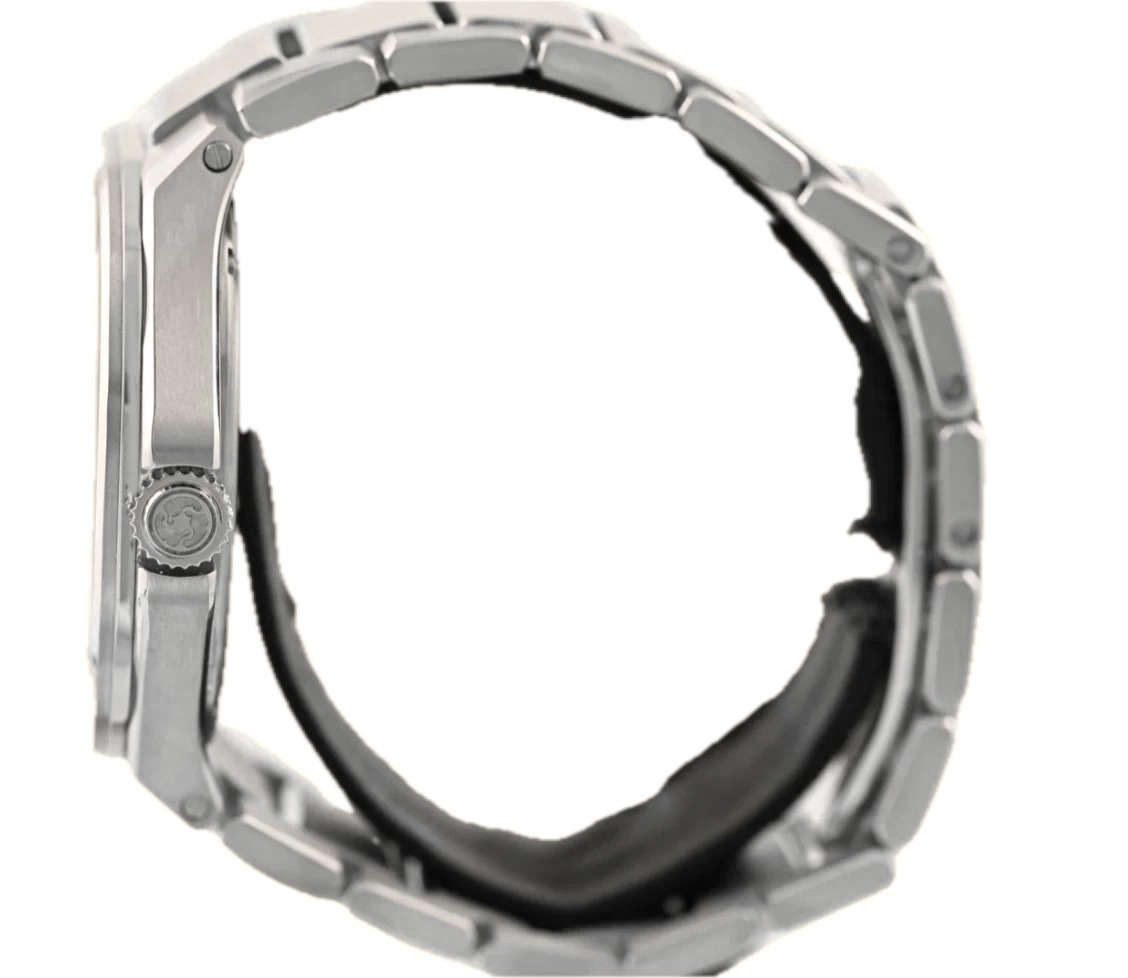
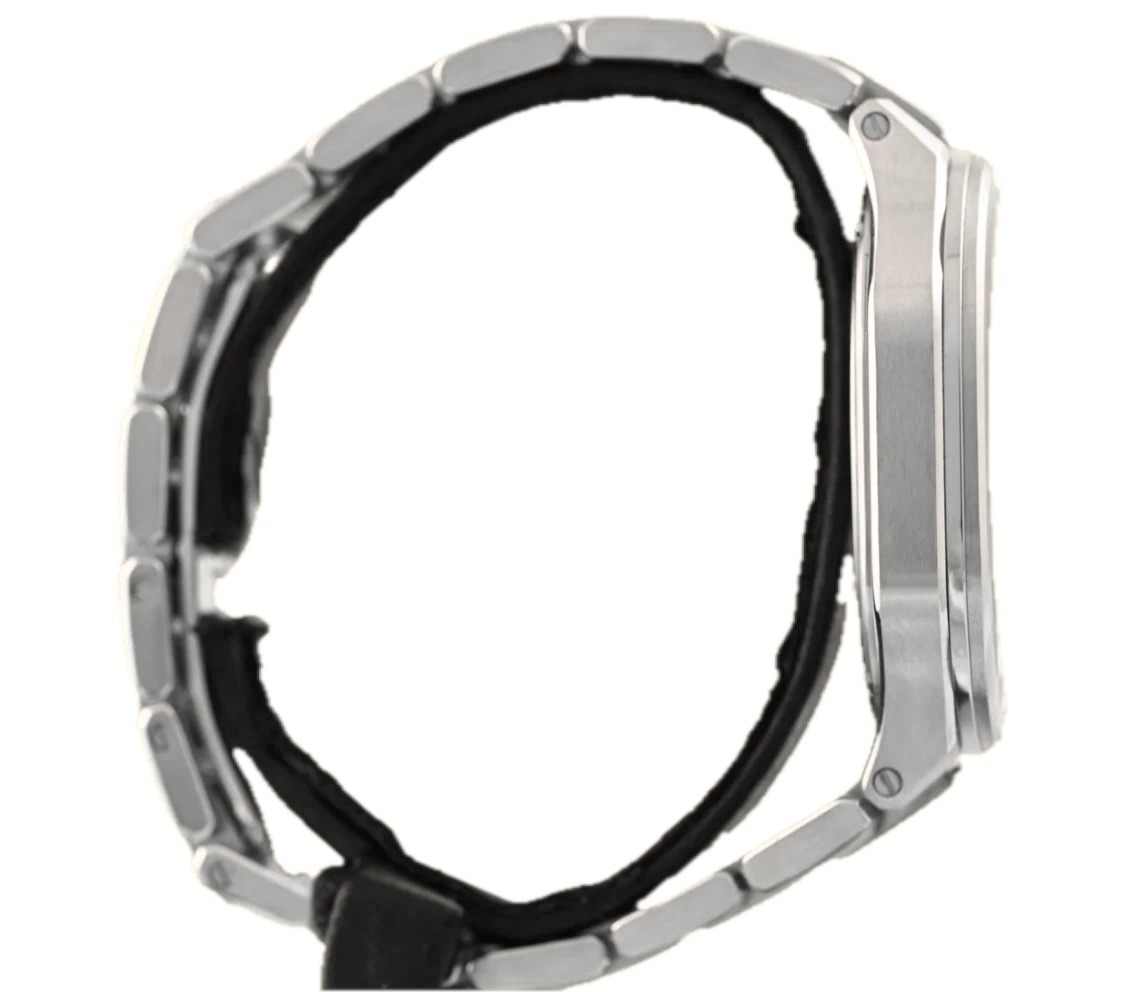
Bilder: p650 (Speake-Marin Ripples Blue Jeans Limited Edition 40,3 ) neu geordnet

diff --git a/js/data.js b/js/data.js
@@ -2986,8 +2986,7 @@ window.PRODUCTS = [
    "assets/products/p650/3.jpg",
    "assets/products/p650/4.jpg",
    "assets/products/p650/5.jpg",
-   "assets/products/p650/6.jpg",
-   "assets/products/p650/7.jpg"
+   "assets/products/p650/6.jpg"
   ],
   "shopifyId": "10631525695816"
  },
